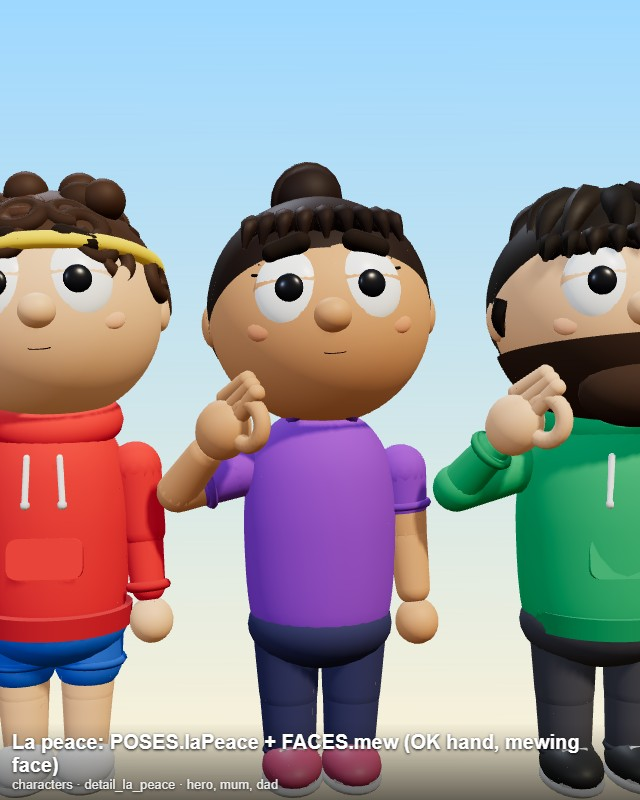
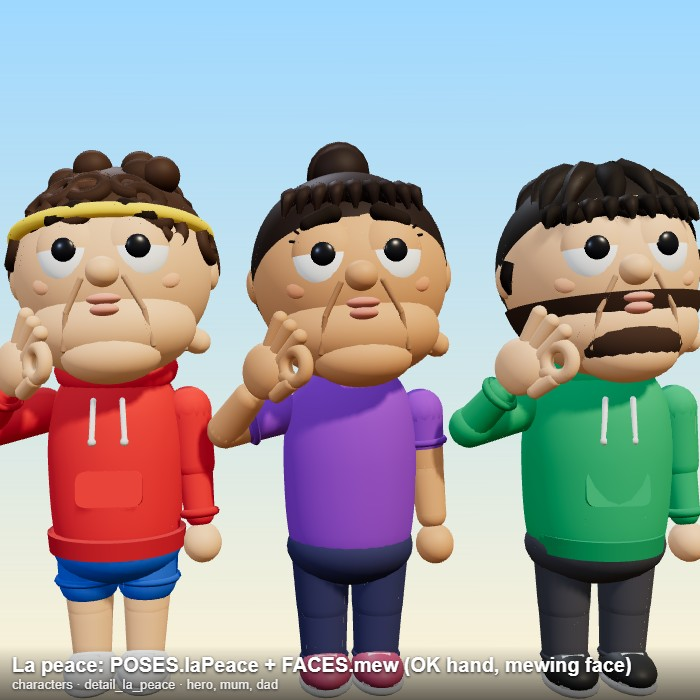
Exaggerated mewing face for people and Gerald, rebuilt OK hand
- FACES.mew / face({ mew }): huge square jaw and chin, nose-to-chin creases, jowl folds, lips pushed out, half lids
- Gerald AFACES.mew: fat jowls, big double chin, creases, pursed pink lips (after the mewing-cat meme)
- OK hand: flat palm, thumb-index ring with a clear hole, three fanned fingers
- Screenshots detail_mew_close, detail_ok_hand, detail_gerald_mew; prompt and index updated

diff --git a/series-animation-guide/assets/library/character.js b/series-animation-guide/assets/library/character.js
@@ -180,9 +180,12 @@ function makeHand(ch, s, skinM, detail) {
   add(t2, cap(0.02, 0.022, 3, 8), skinM, [0, -0.02, 0]);
   // modelled OK sign (thumb + index ring, three fingers up): the rig's curled fingers don't read as a circle at this scale
   const okG = new THREE.Group(); okG.visible = false; hand.add(okG); H.ok = okG;
-  add(okG, sph(0.062, 16, 12), skinM, [0, -0.068, 0], [0, 0, 0], [0.82, 1.05, 0.95]);
-  add(okG, tor(0.04, 0.017, 10, 22), skinM, [0, -0.13, 0.042], [0, Math.PI / 2, 0]);
-  [[0.012, 0.0], [-0.012, -0.12], [-0.034, -0.24]].forEach(([z, a]) => add(okG, cap(0.018, 0.075, 3, 8), skinM, [0, -0.15, z], [a, 0, 0]));
+  const okSeg = (a, b, r) => { const A = new THREE.Vector3(...a), B = new THREE.Vector3(...b), d = B.clone().sub(A); const m = add(okG, cap(r, Math.max(0.001, d.length() - r), 4, 10), skinM, A.clone().add(B).multiplyScalar(0.5).toArray()); m.quaternion.setFromUnitVectors(new THREE.Vector3(0, 1, 0), d.normalize()); return m; };
+  add(okG, sph(0.064, 18, 14), skinM, [0, -0.075, -0.008], [0, 0, 0], [0.62, 1.05, 1.0]);                                  // flat palm (normal = x)
+  add(okG, tor(0.034, 0.0165, 10, 26), skinM, [0, -0.16, 0.05], [0, Math.PI / 2, 0]);                                       // thumb + index ring (hole faces the palm side)
+  okSeg([0, -0.11, 0.045], [0, -0.132, 0.05], 0.018);                                                                      // index root into the ring
+  okSeg([0, -0.06, 0.055], [0, -0.13, 0.072], 0.019);                                                                      // thumb root into the ring
+  [[0.012, 0.0], [-0.013, -0.16], [-0.038, -0.32]].forEach(([z, a]) => { const L = 0.1 - Math.abs(a) * 0.05; okSeg([0, -0.12, z], [0, -0.12 - Math.cos(a) * L, z + Math.sin(a) * L], 0.0175); });   // three fingers up, fanned
   H.thumb = [t1, t2]; H.parts?.push(t1); if (H.ball) H.parts.forEach((m) => (m.visible = false));
   return H;
 }
@@ -418,6 +421,21 @@ function buildFace(ch, o) {
   const teeth = new THREE.Mesh(box(1, 1, 1), new THREE.MeshStandardMaterial({ color: 0xffffff, roughness: 0.4 })); mouth.add(teeth);
   const smile = new THREE.Mesh(tor(1, 0.1, 8, 24, Math.PI), darkM); smile.position.z = R * 0.04; mouth.add(smile);
   F.mouth = { g: mouth, mm, tongue, teeth, smile };
+  // MEWING (the "la peace" face, exaggerated like the mewing-cat meme): a huge square jaw and chin below the round head,
+  // hard jaw ridges, deep smile-line creases from the nose to the chin, and lips pushed forward. Hidden unless face({ mew }).
+  const mew = new THREE.Group(); mew.visible = false; h.add(mew); F.mew = mew;
+  const jawM = ch.skin, creaseM = mat(shade(o.skin, 0.62), { rough: 0.85 }), lipM = mat(new THREE.Color(o.skin).lerp(new THREE.Color(0xd9707a), 0.55).getHex(), { rough: 0.45 });
+  add(mew, sph(R * 0.62, 28, 20), jawM, [0, -R * 0.62, R * 0.36], [0, 0, 0], [1.32, 0.78, 1.0]);                       // jaw block
+  add(mew, sph(R * 0.36, 22, 16), jawM, [0, -R * 0.9, R * 0.62], [0, 0, 0], [1.35, 0.78, 0.95]);                        // square chin
+  const seg = (a, b, r) => { const A = new THREE.Vector3(...a).multiplyScalar(R), B = new THREE.Vector3(...b).multiplyScalar(R), d = B.clone().sub(A), m = add(mew, cap(R * r, d.length(), 3, 8), creaseM, A.clone().add(B).multiplyScalar(0.5).toArray()); m.quaternion.setFromUnitVectors(new THREE.Vector3(0, 1, 0), d.normalize()); m.castShadow = false; };
+  for (const s of [-1, 1]) {
+    add(mew, cap(R * 0.13, R * 0.55, 5, 12), jawM, [s * R * 0.6, -R * 0.68, R * 0.32], [0.35, s * 0.45, s * 1.05]);      // jaw ridge, ear to chin
+    seg([s * 0.2, -0.2, 0.99], [s * 0.36, -0.5, 0.92], 0.028); seg([s * 0.36, -0.5, 0.92], [s * 0.42, -0.84, 0.81], 0.028);   // smile-line crease, nose to chin
+    seg([s * 0.62, -0.5, 0.62], [s * 0.7, -0.86, 0.4], 0.024);                                                             // jowl fold
+  }
+  seg([-0.3, -1.08, 0.68], [0.3, -1.08, 0.68], 0.024);                                                                     // under-chin fold
+  add(mew, sph(R * 0.13, 16, 10), lipM, [0, -R * 0.4, R * 0.98], [0, 0, 0], [1.25, 0.42, 0.75]);                         // upper lip, pushed out
+  add(mew, sph(R * 0.12, 16, 10), lipM, [0, -R * 0.5, R * 0.97], [0, 0, 0], [1.15, 0.5, 0.8]);                           // lower lip
   ch.F = F;
 }
 // Film clock for automatic secondary motion (blinks, breathing). The page sets CLOCK.t once per frame before drawing,
@@ -439,7 +457,8 @@ function applyFace(ch, f) {
     b.g.position.y = b.baseY + o.brow * R * 0.18 + (o.eye - 1) * R * 0.12;
     b.g.rotation.z = s * o.browTilt * 0.7;
   }
-  const m = F.mouth, open = o.open;
+  const mk = o.mew ?? 0; F.mew.visible = mk > 0.01; F.mew.scale.setScalar(0.6 + 0.4 * mk);
+  const m = F.mouth, open = mk > 0.5 ? 0 : o.open; if (mk > 0.5) o.smile = 0;
   if (open > 0.04) {
     m.mm.visible = true; m.smile.visible = false;
     m.mm.scale.set(R * (0.12 + 0.1 * Math.min(1, open) + 0.06 * o.wide), R * (0.02 + 0.2 * open), R * 0.08);
@@ -531,7 +550,7 @@ export const FACES = {
   lovestruck: { open: 0.45, brow: 0.7, eye: 1.15, wide: 1.2, hearts: 1, lid: 0 },
   excited: { open: 0.65, brow: 0.8, eye: 1.2, teeth: true, wide: 1.2 },
   sleepy: { smile: 0.1, lid: 0.7 },
-  mew: { smile: 0.04, open: 0, lid: 0.38, brow: -0.3, browTilt: -0.4, pupil: [0, 0.08], wide: 0.75 },   // "la peace": mewing, closed tight lips, low lids, sharp brows
+  mew: { mew: 1, smile: 0, open: 0, lid: 0.5, brow: -0.45, browTilt: -0.5, pupil: [0, -0.05], blink: false },   // "la peace": mewing, closed tight lips, low lids, sharp brows
 };
 
 // ---------- presets (all complete; no implicit merge with hero) ----------

diff --git a/series-animation-guide/assets/library/cat.js b/series-animation-guide/assets/library/cat.js
@@ -53,6 +53,20 @@ export function buildCat(o) {
   for (const s of [-1, 1]) for (let k = 0; k < 3; k++) add(head, cyl(0.0022, 0.0012, R * 1.1, 4), mat(0xfffaf0), [s * R * 0.62, -R * 0.36 + (k - 1) * R * 0.07, R * 0.86], [0, s * 0.35, Math.PI / 2 + s * (k - 1) * 0.12]);
   for (let i = -1; i <= 1; i++) add(head, cap(R * 0.035, R * 0.22, 4, 8), stripe, [i * R * 0.17, R * 0.62, R * 0.62], [0.95, 0, i * 0.25]);
   for (const s of [-1, 1]) for (let k = 0; k < 2; k++) add(head, cap(R * 0.03, R * 0.2, 4, 8), stripe, [s * R * 1.0, R * 0.05 - k * R * 0.17, R * 0.25], [0, s * 0.5, Math.PI / 2]);
+  // MEWING Gerald (the mewing-cat meme): fat jowls, a huge chin and double chin, deep creases from the nose down, pink lips pushed out.
+  // Hidden unless face({ mew: 0..1 }) / AFACES.mew.
+  const mew = new THREE.Group(); mew.visible = false; head.add(mew);
+  const creaseM = mat(0xa24a16, { rough: 0.9 }), lipM = mat(0xe58a8f, { rough: 0.4 });
+  const mseg = (a, b, r) => { const A = new THREE.Vector3(...a).multiplyScalar(R), B = new THREE.Vector3(...b).multiplyScalar(R), d = B.clone().sub(A); const m = add(mew, cap(R * r, Math.max(0.001, d.length() - R * r), 3, 8), creaseM, A.clone().add(B).multiplyScalar(0.5).toArray()); m.quaternion.setFromUnitVectors(new THREE.Vector3(0, 1, 0), d.normalize()); m.castShadow = false; };
+  for (const s of [-1, 1]) {
+    add(mew, sph(R * 0.52, 20, 14), fur, [s * R * 0.62, -R * 0.62, R * 0.42], [0, 0, 0], [1.0, 1.15, 0.9]);              // jowls
+    mseg([s * 0.22, -0.3, 1.0], [s * 0.36, -0.62, 0.95], 0.038); mseg([s * 0.36, -0.62, 0.95], [s * 0.4, -0.98, 0.8], 0.038);   // nose-to-chin crease
+    mseg([s * 0.95, -0.5, 0.5], [s * 0.9, -0.95, 0.35], 0.03);                                                                // outer jowl fold
+  }
+  add(mew, sph(R * 0.46, 22, 16), cream, [0, -R * 0.86, R * 0.6], [0, 0, 0], [1.35, 0.85, 0.95]);                          // big chin
+  add(mew, sph(R * 0.5, 22, 16), fur, [0, -R * 1.18, R * 0.38], [0, 0, 0], [1.45, 0.6, 0.95]);                            // double chin
+  mseg([-0.45, -1.05, 0.72], [0.45, -1.05, 0.72], 0.03);                                                                     // chin fold
+  add(mew, sph(R * 0.13, 14, 10), lipM, [0, -R * 0.52, R * 0.98], [0, 0, 0], [1.3, 0.55, 0.8]);                           // pursed lips
   // eyes: series look (episodes 1-2): white ball, round black pupil, no iris colour or catchlight; heavy upper lid is his signature
   const eyes = [];
   for (const s of [-1, 1]) {
@@ -83,7 +97,7 @@ export function buildCat(o) {
     tail.push(seg); parent = seg;
   }
   add(tail[8], sph(0.024, 10, 8), stripe, [0, 0, -0.06]);
-  const a = { root, pivot, body: hips, hips, chest, neck, head, legs, tail, eyes, ears, S: { headR: R }, kind: 'cat', opts: o, L, HIPY };
+  const a = { root, pivot, body: hips, hips, chest, neck, head, legs, tail, eyes, ears, mew, S: { headR: R }, kind: 'cat', opts: o, L, HIPY };
   root.scale.setScalar(o.scale ?? 1);
   a.pose = (p) => { applyCatPose(a, p); if (!p.air) plantA(a); };
   a.face = (f) => applyAFace(a, f);

diff --git a/series-animation-guide/assets/library/registry.js b/series-animation-guide/assets/library/registry.js
@@ -146,3 +146,9 @@ reg({ id: 'detail_love_eyes', cat: 'characters', title: 'Heart eyes: face({heart
   build: () => { const g = new THREE.Group(); [['hero', -0.6], ['mum', 0.6]].forEach(([n, x]) => { const c = makeCharacter(PRESETS[n]); c.pose(POSES.idle(0.2)); c.face(FACES.love); c.root.position.x = x; g.add(c.root); }); const cat = makeAnimal('cat', ANIMALS.gerald); cat.pose(APOSES.sit(0.4)); cat.face(AFACES.love); cat.root.position.set(0, 0, 0.6); g.add(cat.root); return { obj: g, cam: { pos: [0, 1.3, 3.4], target: [0, 0.95, 0], fov: 36 } }; } });
 reg({ id: 'detail_la_peace', cat: 'characters', title: 'La peace: POSES.laPeace + FACES.mew (OK hand, mewing face)', note: 'hero, mum, dad',
   build: () => { const g = new THREE.Group(); [['hero', -0.9], ['mum', 0.0], ['dad', 0.95]].forEach(([n, x], i) => { const c = makeCharacter(PRESETS[n]); c.pose(POSES.laPeace(i)); c.face(FACES.mew); c.root.position.x = x; c.root.rotation.y = 0.1; g.add(c.root); }); return { obj: g, cam: { pos: [0, 1.5, 3.9], target: [0, 1.3, 0], fov: 38 } }; } });
+reg({ id: 'detail_mew_close', cat: 'characters', title: 'Mewing face close-up: FACES.mew (+ POSES.laPeace)', note: 'hero, mum, dad',
+  build: () => { const g = new THREE.Group(); [['hero', -0.85], ['mum', 0.0], ['dad', 0.9]].forEach(([n, x], i) => { const c = makeCharacter(PRESETS[n]); c.pose(POSES.laPeace(i)); c.face(FACES.mew); c.root.position.x = x; g.add(c.root); }); return { obj: g, cam: { pos: [0, 1.75, 2.4], target: [0, 1.5, 0], fov: 40 } }; } });
+reg({ id: 'detail_ok_hand', cat: 'characters', title: 'OK hand close-up (hR: ok)', note: '',
+  build: () => { const c = makeCharacter(PRESETS.mum); c.pose(POSES.laPeace(0)); c.face(FACES.mew); const p = new THREE.Vector3(); c.root.updateMatrixWorld(true); c.aR.hand.root.getWorldPosition(p); return { obj: c.root, cam: { pos: [p.x + 0.1, p.y + 0.15, p.z + 1.2], target: [p.x, p.y + 0.12, p.z], fov: 30 } }; } });
+reg({ id: 'detail_gerald_mew', cat: 'animals', title: 'Mewing Gerald: AFACES.mew (jowls, chin, creases, pursed lips)', note: 'front / 3-4',
+  build: () => { const g = new THREE.Group(); [[-0.36, 0.0], [0.4, 0.55]].forEach(([x, ry]) => { const c = makeAnimal('cat', ANIMALS.gerald); c.pose({ ...APOSES.sit(0.3), hx: -0.12 }); c.face(AFACES.mew); c.root.position.x = x; c.root.rotation.y = ry; g.add(c.root); }); return { obj: g, cam: { pos: [0, 0.6, 2.1], target: [0, 0.45, 0], fov: 34 } }; } });

diff --git a/series-animation-guide/assets/library/animal.js b/series-animation-guide/assets/library/animal.js
@@ -154,5 +154,6 @@ export function applyAFace(a, f) {
   const bp = ((a._t ?? 0) + (a.opts.seed ?? 0) * 0.7) % 3.7; if (f.blink !== false && bp < 0.16) o.lid = Math.max(o.lid, 1 - Math.abs(bp - 0.08) / 0.08 * 0.6);   // slow, lazy blink
   for (const e of a.eyes) { e.lp.rotation.x = -Math.PI / 2 + o.lid * Math.PI * 1.02; e.pg.position.x = o.look[0] * R * 0.1; e.pg.position.y = o.look[1] * R * 0.1; e.pupil.scale.x = (e.bx ?? (a.kind === 'cat' ? 0.55 : 1)) * o.pupil; e.pupil.scale.y = (e.by ?? (a.kind === 'cat' ? 1.15 : 1)) * o.pupil; if (e.heart) { const k = o.hearts ?? 0, th = 1 + 0.08 * Math.sin((a._t ?? 0) * 9); e.heart.visible = k > 0.01; e.heart.scale.set(e.hs * k * th, e.hs * k * th, e.heart.scale.z); e.pupil.visible = k < 0.6; if (k > 0.3) e.lp.rotation.x = -Math.PI / 2 + Math.min(o.lid, 0.1) * Math.PI; } }
   if (a.head.userData.tongue) a.head.userData.tongue.visible = o.open > 0.3;
+  if (a.mew) { const k = o.mew ?? 0; a.mew.visible = k > 0.01; a.mew.scale.setScalar(0.6 + 0.4 * k); }
 }
-export const AFACES = { deadpan: { lid: 0.45 }, bored: { lid: 0.55 }, annoyed: { lid: 0.35, look: [0.8, 0.3] }, shock: { lid: 0, pupil: 1.5 }, sleepy: { lid: 0.9 }, judging: { lid: 0.5, look: [-0.8, 0.2] }, happy: { lid: 0.1, open: 1 }, closed: { lid: 1 }, love: { lid: 0, hearts: 1, open: 1 } };
+export const AFACES = { deadpan: { lid: 0.45 }, bored: { lid: 0.55 }, annoyed: { lid: 0.35, look: [0.8, 0.3] }, shock: { lid: 0, pupil: 1.5 }, sleepy: { lid: 0.9 }, judging: { lid: 0.5, look: [-0.8, 0.2] }, happy: { lid: 0.1, open: 1 }, closed: { lid: 1 }, love: { lid: 0, hearts: 1, open: 1 }, mew: { lid: 0.5, mew: 1, look: [0, -0.1], blink: false } };

diff --git a/series-animation-guide/MASTER_PROMPT.md b/series-animation-guide/MASTER_PROMPT.md
@@ -114,7 +114,7 @@ Episode 3 v1 cut every ~0.7 s and the user rejected it: confusing, text overlapp
 - Give each speaker a different delivery: excited, disbelief, confused, deadpan, broadcast or radio, small group, big crowd, whole-world crowd.
 - **About 14 voiced lines.** Every other reaction is silent open-mouth shock with no caption.
 - Each voiced line gets a punch-zoom, mouth movement synced to the audio, and a big yellow caption.
-- **"La peace" episodes:** every character who says it does the OK hand sign beside the face and a mewing face (chin up, lips closed tight, low lids, sharp brows): `ch.pose(POSES.laPeace(t))` + `ch.face(FACES.mew)`. Keep the mouth closed except a small open on the syllables. Captions read "LA PEACE" / "LA PEACE!". The sample is 1.1 s (the first "la peace" of the source).
+- **"La peace" episodes:** every character who says it does the OK hand sign beside the face and a **very exaggerated mewing face** like the mewing-cat meme (huge square jaw and chin, deep creases from nose to chin, lips pushed out, chin up, half-lidded smug eyes): `ch.pose(POSES.laPeace(t))` + `ch.face(FACES.mew)`. Gerald mews too when the episode calls for it: `gerald.face(AFACES.mew)` (fat jowls, big double chin, creases, pursed pink lips). Keep the mouth closed except a small open on the syllables. Captions read "LA PEACE" / "LA PEACE!". The sample is 1.1 s (the first "la peace" of the source).
 
 ### Gerald — the recurring cat (cast, not a trope)
 - Gerald (`ANIMALS.gerald`, orange tabby, half-lidded eyes) appears in **every scene** of every episode, shown in a wide/establishing shot first, doing something unbothered that suits the location. He is never counted, never impressed, never speaks or meows (no audio from him).

diff --git a/series-animation-guide/assets/library/INDEX.md b/series-animation-guide/assets/library/INDEX.md
@@ -102,6 +102,6 @@ Heart eyes: people `face({ hearts: 0..1 })` (or `FACES.love` / `FACES.lovestruck
 
 ## Gestures, clips, catchphrase SFX (2026-11-19)
 - Hands are balls (series look) but swap to fingers for finger gestures: `hR: 'ok' | 'point' | 'peace'` (gesture hands grow 1.6x so the sign reads). `'ok'` is a modelled OK sign (thumb-index ring + three fingers). Wrist twist: pose keys `wL` / `wR`.
-- **La peace:** `POSES.laPeace(t)` (OK hand up beside the face, chin up) + `FACES.mew` (mewing: tight closed lips, low lids, sharp brows). Screenshot: `detail_la_peace`.
+- **La peace:** `POSES.laPeace(t)` (OK hand up beside the face, chin up) + `FACES.mew` (exaggerated mewing: huge square jaw and chin, nose-to-chin creases, lips pushed out, half lids; `face({ mew: 0..1 })` blends it in). Gerald: `AFACES.mew` / `face({ mew })` (jowls, double chin, creases, pursed lips). Screenshots: `detail_la_peace`, `detail_mew_close`, `detail_ok_hand`, `detail_gerald_mew`.
 - Catchphrase samples live one level up in `assets/`: `bomboclat.mp3`, `la_peace.mp3` (1.1 s, first phrase only).
 - **Clips:** `clips/clap_cat.webm` (clapping black cat, green screen removed, VP9 with alpha + sound; poster `clips/clap_cat_poster.png`; it holds a paw out at about 6.0 s). `python tools/clip_frames.py clips/clap_cat.webm <episode>/build/clip <episode>/build/audio/clip.wav` makes the frames, then `await clipCard(dirURL, { height: 1.65, feet: 0.184 })` from `fx/clip.js` and call `card.show(t - t0, camera.position)` every frame. The script's header shows how to key a new green-screen clip.
